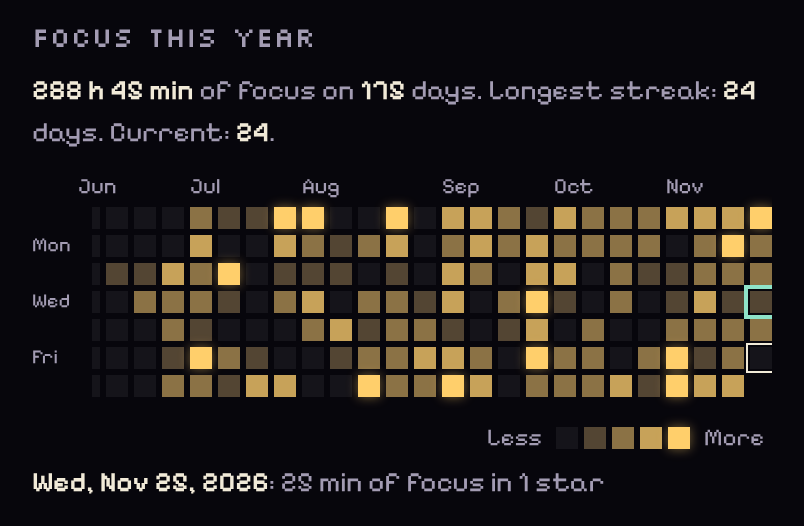
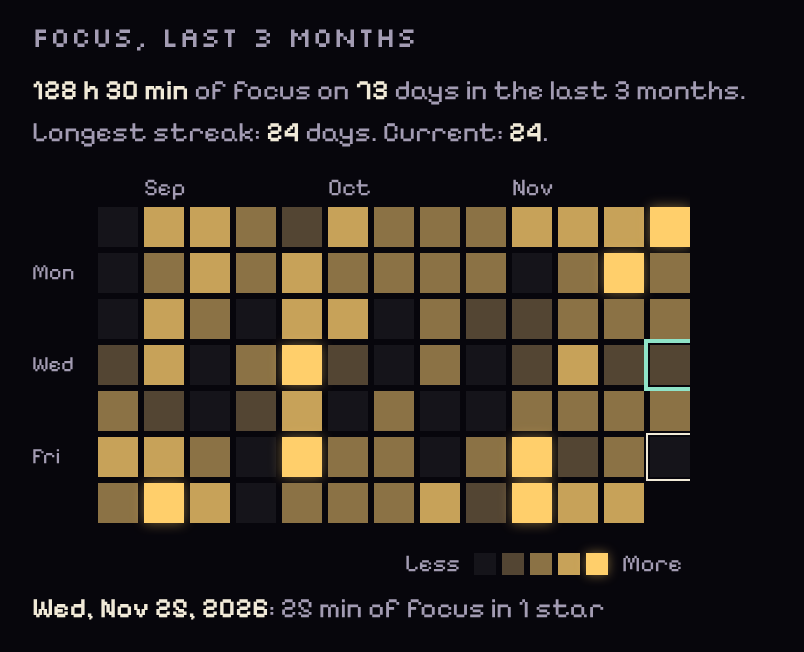
Show the last 3 months in the heatmap, with larger squares
Claude-Session: https://claude.ai/code/session_012CRGPc8a21Kz258Mcn3Pon

diff --git a/index.html b/index.html
@@ -133,12 +133,13 @@ nav button.on{color:var(--ink)}nav button.on::before{background:var(--acc);box-s
 #forge{cursor:pointer}
 .kind{max-width:300px;margin:12px auto 0}
 .sync .row{margin-top:8px}.sync .btn{flex:1}
-.heatw{margin-top:20px;width:max-content;max-width:100%}
+.heatw{margin-top:20px}
+.hgrid{width:max-content;max-width:100%}
 .hstats{font-size:14px;color:var(--dim);margin:2px 0 10px}.hstats b{color:var(--ink);font-weight:600}
-.hscroll{overflow-x:auto;padding-bottom:6px;-webkit-overflow-scrolling:touch}
-.heat{--hc:11px;display:grid;grid-auto-flow:column;grid-template-rows:14px repeat(7,var(--hc));grid-template-columns:30px;grid-auto-columns:var(--hc);gap:3px;width:max-content}
-.heat .hm{font-size:11px;line-height:14px;color:var(--dim);white-space:nowrap;overflow:visible;width:0}
-.heat .hd{font-size:10px;line-height:var(--hc);color:var(--dim);position:sticky;left:0;z-index:1;background:var(--bg);padding-right:4px}
+.hscroll{overflow-x:auto;padding:3px 4px 6px 0;-webkit-overflow-scrolling:touch}
+.heat{--hc:clamp(12px,calc((100vw - 104px) / 13),20px);display:grid;grid-auto-flow:column;grid-template-rows:14px repeat(7,var(--hc));grid-template-columns:30px;grid-auto-columns:var(--hc);gap:3px;width:max-content}
+.heat .hm{font-size:12px;line-height:14px;color:var(--dim);white-space:nowrap;overflow:visible;width:0}
+.heat .hd{font-size:11px;line-height:var(--hc);color:var(--dim);position:sticky;left:0;z-index:1;background:var(--bg);padding-right:4px}
 .heat i,.hleg i{display:block;width:var(--hc,11px);height:var(--hc,11px);background:rgba(255,255,255,.06)}
 .heat i{cursor:pointer}
 .heat i.l1,.hleg i.l1{background:color-mix(in srgb,var(--gold) 26%,#17141f)}
@@ -150,7 +151,7 @@ nav button.on{color:var(--ink)}nav button.on::before{background:var(--acc);box-s
 .heat i.sel{outline:2px solid var(--mint);outline-offset:1px}
 .hleg{display:flex;align-items:center;justify-content:flex-end;gap:3px;font-size:12px;color:var(--dim);margin-top:6px}.hleg span{margin:0 4px}
 .htip{min-height:22px;font-size:14px;color:var(--dim);margin-top:4px}.htip b{color:var(--ink);font-weight:600}
-@media(min-width:900px){.heat{--hc:13px}}
+@media(min-width:900px){.heat{--hc:22px}}
 /* tasks */
 .thead{display:flex;align-items:center;gap:10px}.thead h2{flex:1}
 .gchip{border:0;background:rgba(255,255,255,.06);font:12px var(--px);color:var(--dim);min-height:40px;padding:0 12px;clip-path:var(--notch)}
@@ -264,10 +265,10 @@ code{overflow-wrap:anywhere}
     <div id="gcard" class="gcard" hidden></div>
   </div>
   <div class="heatw">
-    <h3>Focus this year</h3>
+    <h3>Focus, last 3 months</h3>
     <div id="hstats" class="hstats"></div>
-    <div class="hscroll" id="hscroll"><div id="heat" class="heat" role="grid" aria-label="Focus minutes per day for the last year"></div></div>
-    <div class="hleg"><span>Less</span><i></i><i class="l1"></i><i class="l2"></i><i class="l3"></i><i class="l4"></i><span>More</span></div>
+    <div class="hgrid"><div class="hscroll" id="hscroll"><div id="heat" class="heat" role="grid" aria-label="Focus minutes per day for the last 3 months"></div></div>
+    <div class="hleg"><span>Less</span><i></i><i class="l1"></i><i class="l2"></i><i class="l3"></i><i class="l4"></i><span>More</span></div></div>
     <div id="heatTip" class="htip">Tap a day to see its focus time.</div>
   </div>
   <div class="ginfo">
@@ -666,7 +667,7 @@ function renderHeat(){
   heatBy=new Map();
   for(const s of S.stars){const k=dayKey(s.at),o=heatBy.get(k)||{m:0,n:0};o.m+=s.m;o.n++;heatBy.set(k,o)}
   const end=new Date();end.setHours(12,0,0,0);const tk=dayKey(end);
-  const start=new Date(end);start.setDate(start.getDate()-(7*52+end.getDay()));
+  const start=new Date(end);start.setDate(start.getDate()-(7*12+end.getDay()));
   let h='<span class="hm"></span>'+['','Mon','','Wed','','Fri',''].map(x=>`<span class="hd">${x}</span>`).join('');
   let prevM=-1,yrMin=0,active=0,run=0,best=0;
   for(let d=new Date(start),w=0;d<=end;w++){
@@ -680,7 +681,7 @@ function renderHeat(){
     }
   }
   el.innerHTML=h;
-  $('#hstats').innerHTML=`<b>${esc(fmtHM(yrMin))}</b> of focus on <b>${active}</b> day${active===1?'':'s'}. Longest streak: <b>${best}</b> day${best===1?'':'s'}. Current: <b>${streak()}</b>.`;
+  $('#hstats').innerHTML=`<b>${esc(fmtHM(yrMin))}</b> of focus on <b>${active}</b> day${active===1?'':'s'} in the last 3 months. Longest streak: <b>${best}</b> day${best===1?'':'s'}. Current: <b>${streak()}</b>.`;
   const sc=$('#hscroll');requestAnimationFrame(()=>{sc.scrollLeft=sc.scrollWidth});
 }
 function renderGalaxy(){

diff --git a/sw.js b/sw.js
@@ -1,5 +1,5 @@
 // Offline cache for Kairos. Change V to force an update after you edit index.html.
-const V = 'kairos-v6';
+const V = 'kairos-v7';
 const SHELL = ['./', 'index.html', 'core.js', 'manifest.webmanifest', 'icon-180.png', 'icon-192.png', 'icon-512.png'];
 
 self.addEventListener('install', e => {

diff --git a/README.md b/README.md
@@ -18,9 +18,9 @@ A cosmic pixel focus timer and task planner made for ADHD brains. Each focus blo
 |:---:|:---:|
 | ![Zen mode: only the star and its ring, no numbers](docs/phone-zen.png) | ![Stopwatch: counts up, star type grows with time](docs/phone-stopwatch.png) |
 
-**Year heatmap** (sample data)
+**3-month heatmap** (sample data)
 
-![Year heatmap of focus minutes per day](docs/phone-heatmap.png)
+![Heatmap of focus minutes per day for the last 3 months](docs/phone-heatmap.png)
 
 | Tasks: Today | Tasks: Week | Task |
 |:---:|:---:|:---:|
@@ -40,7 +40,7 @@ A cosmic pixel focus timer and task planner made for ADHD brains. Each focus blo
 - **Zen mode.** After you start, tap the forge. Only the star and its ring stay on the screen. Tap again to leave.
 - **The 3-minute rule.** During a focus block, if you leave the app (close it, change tabs, lock the phone) for 3 minutes or more, the matter drifts off and the star does not form. A pause also holds for only 3 minutes. Breaks have no limit.
 - **Star types come from block length:** M red dwarf (under 10 min), K (10+), G like the Sun (25+), F (45+), A (60+), B blue giant (90+), O blue supergiant (150+). If you stop a timer block yourself after 5 minutes or more, you get a brown dwarf.
-- **Year heatmap** on the Galaxy tab, like the one on a GitHub profile: one square per day for the last 53 weeks, brighter for more focus minutes. It shows total hours, active days, and your longest and current streak. Tap a day to see its time and stars.
+- **3-month heatmap** on the Galaxy tab, like the one on a GitHub profile: one square per day for the last 13 weeks, brighter for more focus minutes. It shows total hours, active days, and your longest and current streak. Tap a day to see its time and stars.
 - **Landmarks:** comet (3-day streak), star cluster (each 7 days of streak), quasar (each 30 days), nebula (4 h in one day), supernova remnant (8 h), black hole (12 h), pulsar (one block of 90 min or more).
 - **ADHD helpers:** one "Now doing" task with up to five tiny steps, a "Do 5 minutes" start, a parking lot for stray thoughts, halfway and 5-minute chimes, and a screen wake lock.
 - **Tasks with two dates.** Each task can have a **do date** (the day, and if you want the time, you plan to work on it) and a **due date** (the deadline). The task engine is the core of [Ephemeris](https://github.com/TheScholium/ephemeris), so quick add, repeats and the Today logic work the same way.
